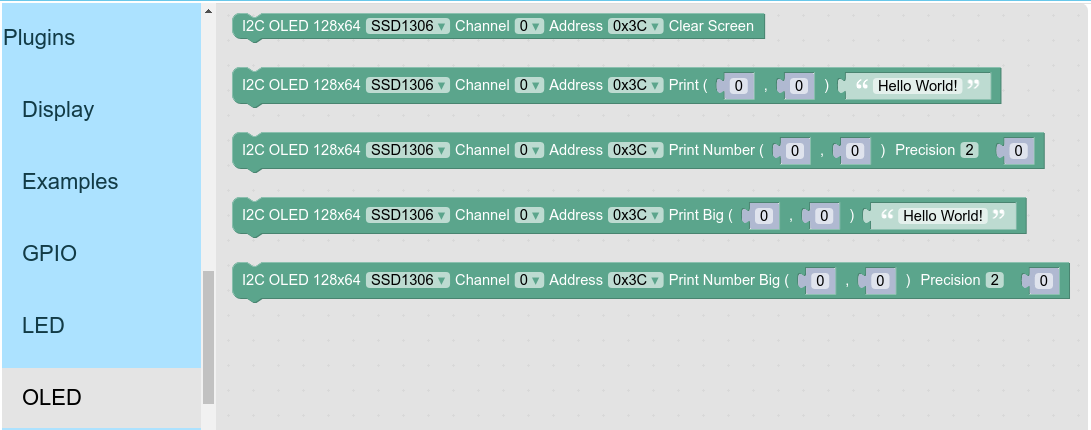
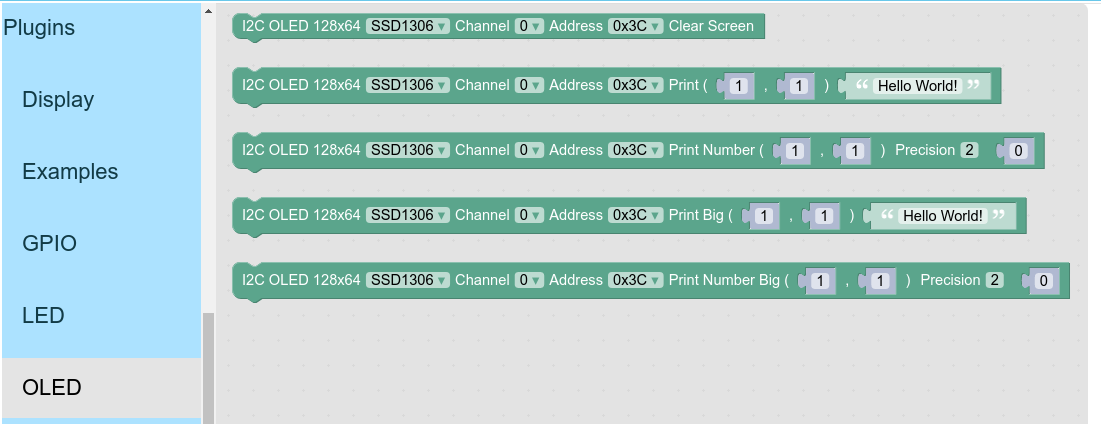
update oled_128x64 to use 1-based column and row

diff --git a/plugins/oled/oled_128x64_i2c/blocks.js b/plugins/oled/oled_128x64_i2c/blocks.js
@@ -248,7 +248,7 @@ Blockly.Blocks["oled_128x64_i2c.putstr_big_prec"] = {
 Blockly.Blocks["oled_128x64_i2c.column_number"] = {
 	init: function() {
 		this.appendDummyInput()
-			.appendField(new Blockly.FieldNumber(0, 0, 20, 1), 'VALUE');
+			.appendField(new Blockly.FieldNumber(1, 1, 21, 1), 'VALUE');
 		this.setOutput(true, 'Number');
 		this.setPreviousStatement(false);
 		this.setNextStatement(false);
@@ -265,7 +265,7 @@ Blockly.Blocks["oled_128x64_i2c.column_number"] = {
 Blockly.Blocks["oled_128x64_i2c.row_number"] = {
 	init: function() {
 		this.appendDummyInput()
-			.appendField(new Blockly.FieldNumber(0, 0, 7, 1), 'VALUE');
+			.appendField(new Blockly.FieldNumber(1, 1, 8, 1), 'VALUE');
 		this.setOutput(true, 'Number');
 		this.setPreviousStatement(false);
 		this.setNextStatement(false);

diff --git a/plugins/oled/oled_128x64_i2c/msg/th.js b/plugins/oled/oled_128x64_i2c/msg/th.js
@@ -22,9 +22,9 @@ Blockly.Msg.OLED_128X64_I2C_PRINT_BIG_PREC_HELPURL = "";
 
 Blockly.Msg.PRECISION_TITLE = "ทศนิยม";
 
-Blockly.Msg.OLED_128X64_I2C_COLUMN_NUMBER_TOOLTIP = "ค่าคอลัมน์ 0 ถึง 20";
+Blockly.Msg.OLED_128X64_I2C_COLUMN_NUMBER_TOOLTIP = "ค่าคอลัมน์ 1 ถึง 21";
 Blockly.Msg.OLED_128X64_I2C_COLUMN_NUMBER_HELPURL = "";
-Blockly.Msg.OLED_128X64_I2C_ROW_NUMBER_TOOLTIP = "ค่าแถว 0 ถึง 7";
+Blockly.Msg.OLED_128X64_I2C_ROW_NUMBER_TOOLTIP = "ค่าแถว 1 ถึง 8";
 Blockly.Msg.OLED_128X64_I2C_ROW_NUMBER_HELPURL = "";
 
 Blockly.Msg.OLED_128X64_I2C_STRING_NUMBER_TOOLTIP = "ตัวอักษรหรือตัวเลข";

diff --git a/plugins/oled/oled_128x64_i2c/msg/en.js b/plugins/oled/oled_128x64_i2c/msg/en.js
@@ -22,9 +22,9 @@ Blockly.Msg.OLED_128X64_I2C_PRINT_BIG_PREC_HELPURL = "";
 
 Blockly.Msg.PRECISION_TITLE = "Precision";
 
-Blockly.Msg.OLED_128X64_I2C_COLUMN_NUMBER_TOOLTIP = "Column value 0 to 20";
+Blockly.Msg.OLED_128X64_I2C_COLUMN_NUMBER_TOOLTIP = "Column value 1 to 21";
 Blockly.Msg.OLED_128X64_I2C_COLUMN_NUMBER_HELPURL = "";
-Blockly.Msg.OLED_128X64_I2C_ROW_NUMBER_TOOLTIP = "Row value 0 to 7";
+Blockly.Msg.OLED_128X64_I2C_ROW_NUMBER_TOOLTIP = "Row value 1 to 8";
 Blockly.Msg.OLED_128X64_I2C_ROW_NUMBER_HELPURL = "";
 
 Blockly.Msg.OLED_128X64_I2C_STRING_NUMBER_TOOLTIP = "String or number";

diff --git a/plugins/oled/oled_128x64_i2c/oled_128x64_i2c.cpp b/plugins/oled/oled_128x64_i2c/oled_128x64_i2c.cpp
@@ -792,18 +792,41 @@ void OLED_128X64_I2C::process(Driver *drv) {
 	}
 }
 
+bool OLED_128X64_I2C::valid_column_row(uint8_t lcd_column, uint8_t lcd_row) {
+	// validate column,row (1-based)
+	if (((lcd_column >= 1) && (lcd_column <= (OLED_I2C_WIDTH / 6))) && ((lcd_row >= 1) && (lcd_row <= (OLED_I2C_HEIGHT / 8)))) {
+		return true;
+	}
+
+	return false;
+}
+
+bool OLED_128X64_I2C::valid_column_row_big(uint8_t lcd_column, uint8_t lcd_row) {
+	// validate column,row (1-based)
+	if (((lcd_column >= 1) && (lcd_column <= ((OLED_I2C_WIDTH / 6) - 1))) && ((lcd_row >= 1) && (lcd_row <= ((OLED_I2C_HEIGHT / 8) - 1)))) {
+		return true;
+	}
+
+	return false;
+}
+
 void OLED_128X64_I2C::putch(uint8_t lcd_column, uint8_t lcd_row, char val) {
     int i, indx, buf_indx;
 
-	// font 6x8
-    if ((lcd_row < (OLED_I2C_HEIGHT / 8)) && (lcd_column < (OLED_I2C_WIDTH / 6))) {
-		buf_indx = (lcd_row * OLED_I2C_WIDTH) + (lcd_column * 6);
-	    indx = val * 6;
-	    for (i = 0; i < 6; i++) {
-			vram[buf_indx + i] = oled_font_6_8[indx];
-	        indx++;
-	    }
+	if (!valid_column_row(lcd_column, lcd_row)) {
+		return;
 	}
+	// change to zero based
+	lcd_column--;
+	lcd_row--;
+
+	// font 6x8
+	buf_indx = (lcd_row * OLED_I2C_WIDTH) + (lcd_column * 6);
+    indx = val * 6;
+    for (i = 0; i < 6; i++) {
+		vram[buf_indx + i] = oled_font_6_8[indx];
+        indx++;
+    }
 
 	// set render flag
 	set_flag |= (0x80 | OLED_I2C_RENDER_FLAG);
@@ -812,18 +835,23 @@ void OLED_128X64_I2C::putch(uint8_t lcd_column, uint8_t lcd_row, char val) {
 void OLED_128X64_I2C::putstr(uint8_t lcd_column, uint8_t lcd_row, char *str) {
 	int i, indx, buf_indx;
 
+	if (!valid_column_row(lcd_column, lcd_row)) {
+		return;
+	}
+	// change to zero based
+	lcd_column--;
+	lcd_row--;
+
 	// font 6x8
-    if ((lcd_row < (OLED_I2C_HEIGHT / 8)) && (lcd_column < (OLED_I2C_WIDTH / 6))) {
-		buf_indx = (lcd_row * OLED_I2C_WIDTH) + (lcd_column * 6);
-		while (*str) {
-			indx = *str * 6;
-			for (i = 0; i < 6; i++) {
-				vram[buf_indx + i] = oled_font_6_8[indx];
-				indx++;
-			}
-			str++;
-			buf_indx += 6;
+	buf_indx = (lcd_row * OLED_I2C_WIDTH) + (lcd_column * 6);
+	while (*str) {
+		indx = *str * 6;
+		for (i = 0; i < 6; i++) {
+			vram[buf_indx + i] = oled_font_6_8[indx];
+			indx++;
 		}
+		str++;
+		buf_indx += 6;
 	}
 
 	// set render flag
@@ -895,21 +923,26 @@ void OLED_128X64_I2C::puthex(uint8_t lcd_column, uint8_t lcd_row, int val) {
 void OLED_128X64_I2C::putch_big(uint8_t lcd_column, uint8_t lcd_row, char val) {
     int i, j, indx, buf_indx;
 
-	// font 12x16
-	if ((lcd_row < ((OLED_I2C_HEIGHT / 8) - 1)) && (lcd_column < ((OLED_I2C_WIDTH / 6) -1))) {
-		buf_indx = (2 * lcd_row * OLED_I2C_WIDTH) + (lcd_column * 12);
-		indx = val * 24;
-		j = 0;
-		for (i = 0; i < 24; i = i + 2) {
-			vram[buf_indx + j] = oled_font_12_16[indx + i];
-			j++;
-		}
+	if (!valid_column_row_big(lcd_column, lcd_row)) {
+		return;
+	}
+	// change to zero based
+	lcd_column--;
+	lcd_row--;
 
-		j = 0;
-		for (i = 1; i < 24; i = i + 2) {
-			vram[buf_indx + j + OLED_I2C_WIDTH] = oled_font_12_16[indx + i];
-			j++;
-		}
+	// font 12x16
+	buf_indx = (2 * lcd_row * OLED_I2C_WIDTH) + (lcd_column * 12);
+	indx = val * 24;
+	j = 0;
+	for (i = 0; i < 24; i = i + 2) {
+		vram[buf_indx + j] = oled_font_12_16[indx + i];
+		j++;
+	}
+
+	j = 0;
+	for (i = 1; i < 24; i = i + 2) {
+		vram[buf_indx + j + OLED_I2C_WIDTH] = oled_font_12_16[indx + i];
+		j++;
 	}
 
 	// set render flag
@@ -919,26 +952,31 @@ void OLED_128X64_I2C::putch_big(uint8_t lcd_column, uint8_t lcd_row, char val) {
 void OLED_128X64_I2C::putstr_big(uint8_t lcd_column, uint8_t lcd_row, char *str) {
 	int i, j, indx, buf_indx;
 
+	if (!valid_column_row_big(lcd_column, lcd_row)) {
+		return;
+	}
+	// change to zero based
+	lcd_column--;
+	lcd_row--;
+
 	// font 12x16
-	if ((lcd_row < ((OLED_I2C_HEIGHT / 8) - 1)) && (lcd_column < ((OLED_I2C_WIDTH / 6) -1))) {
-		buf_indx = (lcd_row * OLED_I2C_WIDTH) + (lcd_column * 6);
-		while (*str) {
-			indx = *str * 24;
-			j = 0;
-			for (i = 0; i < 24; i = i + 2)  {
-				vram[buf_indx + j] = oled_font_12_16[indx + i];
-				j++;
-			}
-
-			j = 0;
-			for (i = 1; i < 24; i = i + 2) {
-				vram[buf_indx + j + OLED_I2C_WIDTH] = oled_font_12_16[indx + i];
-				j++;
-			}
-
-			str++;
-			buf_indx += 12;
+	buf_indx = (lcd_row * OLED_I2C_WIDTH) + (lcd_column * 6);
+	while (*str) {
+		indx = *str * 24;
+		j = 0;
+		for (i = 0; i < 24; i = i + 2)  {
+			vram[buf_indx + j] = oled_font_12_16[indx + i];
+			j++;
 		}
+
+		j = 0;
+		for (i = 1; i < 24; i = i + 2) {
+			vram[buf_indx + j + OLED_I2C_WIDTH] = oled_font_12_16[indx + i];
+			j++;
+		}
+
+		str++;
+		buf_indx += 12;
 	}
 
 	// set render flag

diff --git a/plugins/oled/oled_128x64_i2c/oled_128x64_i2c.h b/plugins/oled/oled_128x64_i2c/oled_128x64_i2c.h
@@ -27,8 +27,9 @@ class OLED_128X64_I2C : public Device {
 		oled_i2c_init_t *init_ptr;
 		uint8_t flag, set_flag, clr_flag;
 		oled_chipset_t chipset;
+		bool valid_column_row(uint8_t lcd_column, uint8_t lcd_row);
+		bool valid_column_row_big(uint8_t lcd_column, uint8_t lcd_row);
 		esp_err_t render(I2CDev *i2c);
-
 	public:
 		// constructor
 		OLED_128X64_I2C(oled_chipset_t oled_chipset, int bus_ch, int dev_addr);

diff --git a/plugins/oled/oled_128x64_i2c/docs/README.md b/plugins/oled/oled_128x64_i2c/docs/README.md
@@ -12,20 +12,20 @@
 - ขนาดใหญ่ (Big) 12x16
 
 ### การอ้างอิงตำแหน่งคอลัมน์และแถว
-- คอลัมน์ (X) ตั้งแต่ 0 ถึง 20
-- แถว (Y) ตั้งแต่ 0 ถึง 7
+- คอลัมน์ (X) ตั้งแต่ 1 ถึง 21
+- แถว (Y) ตั้งแต่ 1 ถึง 8
 - ฟอนต์ขนาดปกติใช้จำนวนช่อง 1 ช่อง
 - ฟอนต์ขนาดใหญ่ใช้จำนวนช่องเป็น 2 เท่าของขนาดฟอนต์ปกติ
 
 ![OLED 128x64 I2C Column Row](images/oled_128x64_i2c_column_row.png)
 
-- ฟอนต์ขนาดปกติ ตัวอักษร A อยู่ที่ คอลัมน์ที่ 0 แถวที่ 0
-- ฟอนต์ขนาดปกติ ตัวอักษร B อยู่ที่ คอลัมน์ที่ 1 แถวที่ 0
+- ฟอนต์ขนาดปกติ ตัวอักษร A อยู่ที่ คอลัมน์ที่ 1 แถวที่ 1
+- ฟอนต์ขนาดปกติ ตัวอักษร B อยู่ที่ คอลัมน์ที่ 2 แถวที่ 1
 
 ![OLED 128x64 I2C Normal Font](images/oled_128x64_i2c_column_row_normal_font.png)
 
-- ฟอนต์ขนาดใหญ่ ตัวอักษร A อยู่ที่ คอลัมน์ที่ 0 แถวที่ 0
-- ฟอนต์ขนาดใหญ่ ตัวอักษร B อยู่ที่ คอลัมน์ที่ 2 แถวที่ 0
+- ฟอนต์ขนาดใหญ่ ตัวอักษร A อยู่ที่ คอลัมน์ที่ 1 แถวที่ 1
+- ฟอนต์ขนาดใหญ่ ตัวอักษร B อยู่ที่ คอลัมน์ที่ 3 แถวที่ 1
 - จุดอ้างอิงของคอลัมน์ และแถวของฟอนต์ขนาดใหญ่อยู่ที่มุมบนด้านซ้าย
 
 ![OLED 128x64 I2C Big Font](images/oled_128x64_i2c_column_row_big_font.png)
